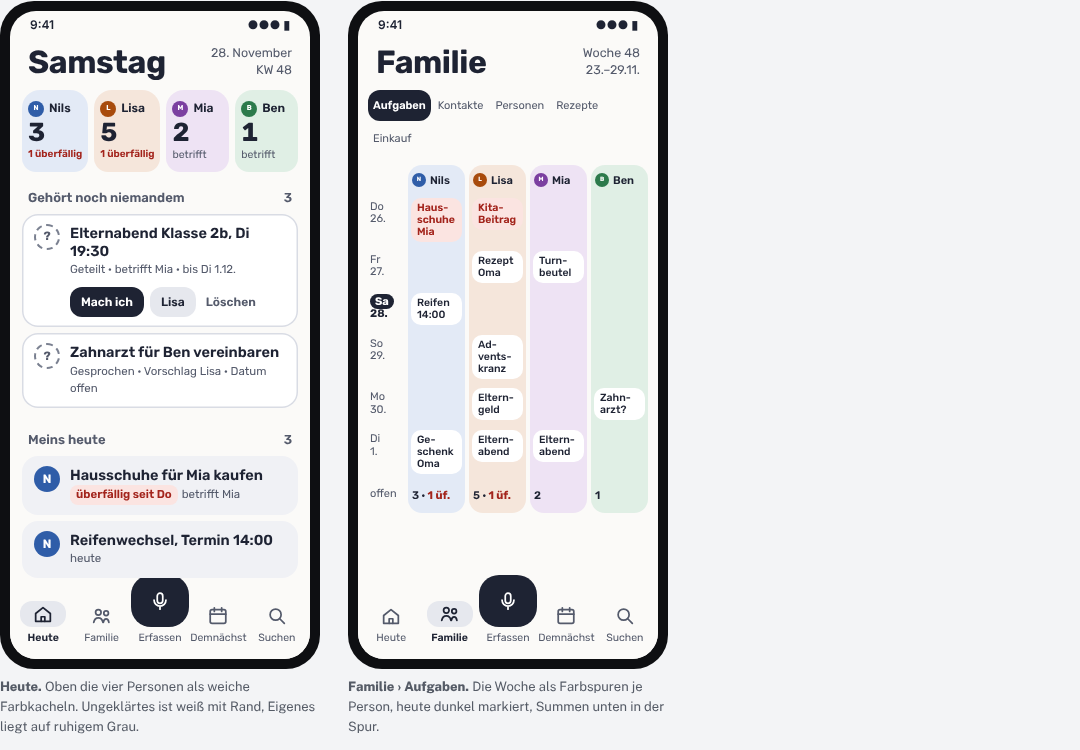
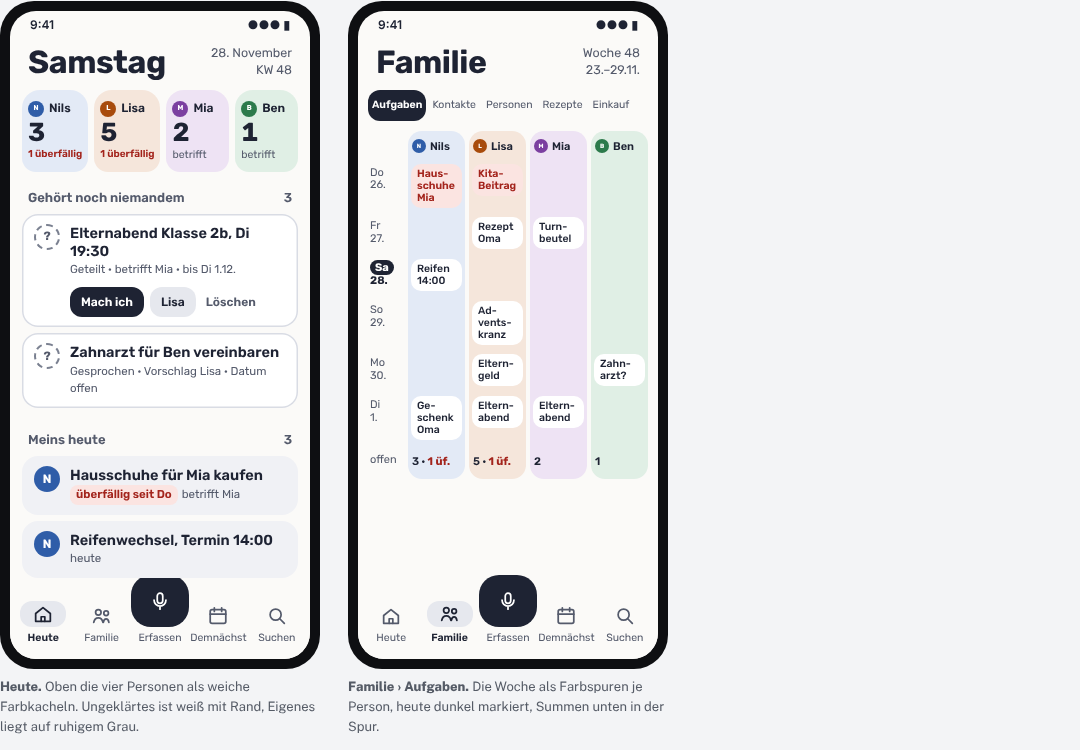
Add more screens in organic direction A, dark mode and 200 % font
Claude-Session: https://claude.ai/code/session_01BFnfEt5Be47hwYCfY1JE4V

diff --git a/docs/gestaltung/richtungen/optik-richtungen.html b/docs/gestaltung/richtungen/optik-richtungen.html
@@ -233,6 +233,80 @@ a{color:var(--mark)}
 .A2 .blk.odb{background:#FBE4E1;color:#A3241C;font-weight:600}
 .A2 .ft{font-size:11px;font-weight:600;padding:7px 4px 9px;border-radius:0 0 14px 14px}
 .A2 .ft b{color:#A3241C}
+
+/* ---------- A2 weitere Ansichten ---------- */
+.A2 .tabs span{padding:7px 4px;font-size:10.5px}
+.A2 .wkh{font-size:13px;font-weight:600;color:#545A6B;padding:12px 18px 6px}
+.A2 .ur{display:flex;align-items:center;gap:10px;margin:0 12px 6px;padding:8px 10px;border-radius:16px;background:#F0F1F5}
+.A2 .dt{width:40px;border-radius:12px;background:#fff;text-align:center;padding:4px 0;flex:none;line-height:1.1}
+.A2 .dt small{display:block;font-size:10px;color:#545A6B;font-weight:600}
+.A2 .dt b{font-size:16px}
+.A2 .ur .tt{font-size:14px}
+.A2 .ur .dot,.A2 .ur .q{margin-left:auto}
+.A2 .tag{display:inline-block;border-radius:8px;padding:1px 6px;font-size:11px;font-weight:600;background:#E6E8EE;color:#1E2333}
+.A2 .fld{margin:0 12px 10px;border-radius:14px;box-shadow:inset 0 0 0 1.5px #D9DCE4;background:#fff;padding:10px 12px;font-size:14px;color:#545A6B;display:flex;gap:8px;align-items:center}
+.A2 .fld.val{color:#1E2333}
+.A2 .chips{display:flex;gap:6px;padding:0 12px 10px;flex-wrap:wrap}
+.A2 .chips span{font-size:12px;font-weight:600;border-radius:12px;padding:6px 10px;background:#E6E8EE}
+.A2 .chips .on{background:#1E2333;color:#fff}
+.A2 .rgrid{display:grid;grid-template-columns:1fr 1fr;gap:8px;padding:0 12px}
+.A2 .rc{border-radius:18px;background:#fff;box-shadow:inset 0 0 0 1.5px #E3E5EB;overflow:hidden}
+.A2 .rc .img{height:78px}
+.A2 .rc .t{font-size:13.5px;font-weight:600;padding:7px 9px 2px;line-height:1.2}
+.A2 .rc .w{font-size:11px;color:#545A6B;padding:0 9px 9px}
+.A2 .rc .w b{color:#2C7A4B;font-weight:600}
+.A2 .pt{display:flex;align-items:center;gap:12px;margin:0 12px 8px;padding:12px;border-radius:20px}
+.A2 .pt .n{font-size:16px;font-weight:600}
+.A2 .pt .s{font-size:12px;color:#545A6B}
+.A2 .pt .cnt{margin-left:auto;text-align:right;font-size:12px;color:#545A6B}
+.A2 .pt .cnt b{display:block;font-size:20px;color:#1E2333}
+.A2 .pt.add{background:transparent;box-shadow:inset 0 0 0 2px #D9DCE4;border-style:dashed;justify-content:center;font-weight:600;color:#545A6B;font-size:14px;outline:2px dashed #C3C7D1;outline-offset:-2px;box-shadow:none}
+.A2 .cg{font-size:13px;font-weight:600;color:#545A6B;padding:10px 18px 6px}
+.A2 .ct{display:flex;align-items:center;gap:10px;margin:0 12px 6px;padding:9px 10px;border-radius:16px;background:#F0F1F5}
+.A2 .ct .ini{width:34px;height:34px;border-radius:50%;background:#fff;display:grid;place-items:center;font-weight:700;font-size:13px;flex:none}
+.A2 .ct .n{font-size:14px;font-weight:600}
+.A2 .ct .r{font-size:11.5px;color:#545A6B}
+.A2 .ct .call{margin-left:auto;font-size:12px;font-weight:600;background:#1E2333;color:#fff;border-radius:12px;padding:7px 10px}
+.A2 .res{margin:0 12px 6px;padding:10px 12px;border-radius:16px;background:#F0F1F5}
+.A2 .res .tt{font-size:14px}
+.A2 .res .mm{display:flex;gap:6px;align-items:center;margin-top:3px}
+.A2 .cap-sheet{position:absolute;left:0;right:0;bottom:0;background:#fff;border-radius:26px 26px 0 0;padding:12px 16px 16px;box-shadow:0 -8px 30px -10px #1E233340;display:flex;flex-direction:column;align-items:center;gap:10px}
+.A2 .live{font-size:19px;font-weight:600;line-height:1.3;text-align:center;min-height:52px}
+.A2 .live span{color:#9AA0AE}
+.A2 .pulse{width:78px;height:78px;border-radius:50%;background:#FBE4E1;display:grid;place-items:center}
+.A2 .pulse div{width:54px;height:54px;border-radius:50%;background:#A3241C;color:#fff;display:grid;place-items:center}
+.A2 .cap-opts{display:grid;grid-template-columns:1fr 1fr 1fr;gap:8px;width:100%}
+.A2 .cap-opts span{border-radius:16px;background:#F0F1F5;text-align:center;padding:10px 4px;font-size:12.5px;font-weight:600}
+.A2 .cap-opts .mid{background:#1E2333;color:#fff}
+/* Dunkel */
+.A2.dk{background:#16181F;color:#ECEDF2}
+.A2.dk .dmeta,.A2.dk .lab,.A2.dk .mm,.A2.dk .pp .mm2,.A2.dk .sec{color:#A9AEBC}
+.A2.dk .row{background:#22252E}
+.A2.dk .row.open{background:#16181F;box-shadow:inset 0 0 0 1.5px #3A3E4A}
+.A2.dk .q{border-color:#A9AEBC;color:#A9AEBC}
+.A2.dk .pp .rd,.A2.dk .od{color:#FF9C8F}
+.A2.dk .od{background:#3D2220}
+.A2.dk .ask span{background:#2C3039;color:#ECEDF2}
+.A2.dk .ask .y{background:#ECEDF2;color:#16181F}
+.A2.dk .ask .del{background:transparent;color:#A9AEBC}
+.A2.dk .nav{background:#16181F;color:#A9AEBC}
+.A2.dk .nav .on{color:#ECEDF2}
+.A2.dk .nav .on svg{background:#2C3039}
+.A2.dk .capq{background:#ECEDF2;color:#16181F}
+.A2.dk .dot{color:#16181F!important}
+/* 200 % Schrift */
+.A2.x2 .dname{font-size:46px}
+.A2.x2 .dmeta{font-size:20px}
+.A2.x2 .ppl{grid-template-columns:1fr 1fr}
+.A2.x2 .pp .nm{font-size:20px}
+.A2.x2 .pp .num{font-size:40px}
+.A2.x2 .pp .rd,.A2.x2 .pp .mm2{font-size:17px;white-space:normal}
+.A2.x2 .lab{font-size:22px}
+.A2.x2 .tt{font-size:24px}
+.A2.x2 .mm{font-size:18px}
+.A2.x2 .nav .it{font-size:11px;letter-spacing:-.02em}
+.A2.x2 .day{flex-direction:column;align-items:flex-start;gap:4px}
+.A2.x2 .dmeta{text-align:left}
 @media (prefers-reduced-motion: reduce){*{transition:none!important;animation:none!important}}
 </style>
 
@@ -305,6 +379,29 @@ a{color:var(--mark)}
       </div></div>
       <p class="cap"><b>Familie › Aufgaben.</b> Die Woche als Farbspuren je Person, heute dunkel markiert, Summen unten in der Spur.</p>
     </div>
+  </div>
+</section>
+
+<section class="dir" id="a-ansichten">
+  <div class="dirhead">
+    <div>
+      <div class="eyebrow">Richtung A organisch · weitere Ansichten</div>
+      <h2>Die ganze App in einem Stil</h2>
+      <p>Dieselben Bausteine überall: weiche Flächen in Personenfarbe, gerundete Kacheln, ein dunkler Hauptknopf, gestrichelt heißt offen. Einkauf, Wochenplanung und Erfassen eines Einkaufs stehen auf der Seite <a href="https://claude.ai/artifact/J19LnQM2G9sgGHv16MxSRZ">Klickwege Küche</a>.</p>
+    </div>
+    <div style="font-size:14.5px">
+      <h3>Dunkel und große Schrift</h3><p>Im Dunkelmodus werden die Spuren zu tiefen Tönen derselben Farbe (Text darauf ≥ 11,3 : 1, Sekundärtext ≥ 6,0 : 1, Rot #FF9C8F ≥ 6,5 : 1), der Hauptknopf wird hell. Bei 200 % Schrift stapeln sich die Personenkacheln zu zwei Spalten, Datum rutscht unter den Wochentag, nichts wird abgeschnitten.</p>
+    </div>
+  </div>
+  <div class="phones">
+    <div><div class="phone"><div class="screen A2 "><div class="status"><span>9:41</span><span>●●● ▮</span></div><div class="day"><span class="dname">Demnächst</span><span class="dmeta">6 Wochen<br>bis 8. Januar</span></div><div class="body"><div class="wkh">Diese Woche · KW 48</div><div class="ur"><div class="dt"><small>So</small><b>29</b></div><div><div class="tt">Adventskranz holen</div></div><span class="dot" style="width:26px;height:26px;background:#A84B0C;font-size:12px">L</span></div><div class="ur"><div class="dt"><small>Mo</small><b>30</b></div><div><div class="tt">Elterngeld-Nachweis</div><div class="mm">bis Montag</div></div><span class="dot" style="width:26px;height:26px;background:#A84B0C;font-size:12px">L</span></div><div class="ur"><div class="dt"><small>Di</small><b>1</b></div><div><div class="tt">Elternabend Klasse 2b</div><div class="mm"><span class="tag">noch nicht bestätigt</span></div></div><span class="q">?</span></div><div class="wkh">Nächste Woche · KW 49</div><div class="ur"><div class="dt"><small>Do</small><b>3</b></div><div><div class="tt">Geburtstag Oma</div><div class="mm">Geschenk: Nils</div></div><span class="dot" style="width:26px;height:26px;background:#2F5DA8;font-size:12px">N</span></div><div class="ur"><div class="dt"><small>Fr</small><b>4</b></div><div><div class="tt">Zahnarzt Ben, 15:30</div><div class="mm">vorausgedacht aus Kalender</div></div><span class="dot" style="width:26px;height:26px;background:#A84B0C;font-size:12px">L</span></div><div class="wkh">KW 50</div><div class="ur"><div class="dt"><small>Mi</small><b>9</b></div><div><div class="tt">Weihnachtsfeier Kita</div></div><span class="q">?</span></div></div><div class="nav"><div class="it"><svg><use href="#i-today"/></svg>Heute</div><div class="it"><svg><use href="#i-fam"/></svg>Familie</div><div class="it"><div class="capq"><svg><use href="#i-mic"/></svg></div>Erfassen</div><div class="it on"><svg><use href="#i-cal"/></svg>Demnächst</div><div class="it"><svg><use href="#i-search"/></svg>Suchen</div></div></div></div><p class="cap"><b>Demnächst.</b> Datum als Kachel, Person rechts, offene Zuständigkeit als gestrichelter Kreis.</p></div>
+    <div><div class="phone"><div class="screen A2 "><div class="status"><span>9:41</span><span>●●● ▮</span></div><div class="day"><span class="dname">Familie</span><span class="dmeta">Rezepte<br>24 gespeichert</span></div><div class="tabs"><span>Aufgaben</span><span>Kontakte</span><span>Personen</span><span class="on">Rezepte</span><span>Einkauf</span></div><div class="body"><div class="fld"><svg style="width:16px;height:16px"><use href="#i-search"/></svg>Rezept suchen</div><div class="chips"><span class="on">Im Angebot</span><span>Saison</span><span>Unter 30 min</span><span>Kinder mögen’s</span></div><div class="rgrid"><div class="rc"><div class="img" style="background:#F5E6DB"></div><div class="t">Ofengemüse mit Feta</div><div class="w"><b>Paprika 1,29 €</b> · 35 min</div></div><div class="rc"><div class="img" style="background:#E0EFE5"></div><div class="t">Linsen-Dal</div><div class="w"><b>Linsen 0,89 €</b> · 30 min</div></div><div class="rc"><div class="img" style="background:#EEE3F4"></div><div class="t">Rotkohl-Pfanne</div><div class="w">Saison · 25 min</div></div><div class="rc"><div class="img" style="background:#E3EAF6"></div><div class="t">Pfannkuchen</div><div class="w">zuletzt vor 3 Wochen</div></div></div></div><div class="nav"><div class="it"><svg><use href="#i-today"/></svg>Heute</div><div class="it on"><svg><use href="#i-fam"/></svg>Familie</div><div class="it"><div class="capq"><svg><use href="#i-mic"/></svg></div>Erfassen</div><div class="it"><svg><use href="#i-cal"/></svg>Demnächst</div><div class="it"><svg><use href="#i-search"/></svg>Suchen</div></div></div></div><p class="cap"><b>Familie › Rezepte.</b> Filter als Chips, Angebote grün mit Preis.</p></div>
+    <div><div class="phone"><div class="screen A2 "><div class="status"><span>9:41</span><span>●●● ▮</span></div><div class="day"><span class="dname">Familie</span><span class="dmeta">Personen<br>4 + Oma</span></div><div class="tabs"><span>Aufgaben</span><span>Kontakte</span><span class="on">Personen</span><span>Rezepte</span><span>Einkauf</span></div><div class="body"><div class="pt" style="background:#E3EAF6"><span class="dot" style="width:42px;height:42px;background:#2F5DA8;font-size:19px">N</span><div><div class="n">Nils (ich)</div><div class="s">Erwachsen · Pixel 10</div></div><div class="cnt"><b>3</b>offen</div></div><div class="pt" style="background:#F5E6DB"><span class="dot" style="width:42px;height:42px;background:#A84B0C;font-size:19px">L</span><div><div class="n">Lisa</div><div class="s">Erwachsen · eigenes Handy</div></div><div class="cnt"><b>5</b>offen</div></div><div class="pt" style="background:#EEE3F4"><span class="dot" style="width:42px;height:42px;background:#7B3FA0;font-size:19px">M</span><div><div class="n">Mia</div><div class="s">Kind · 2b, Grundschule am Park</div></div><div class="cnt"><b>2</b>offen</div></div><div class="pt" style="background:#E0EFE5"><span class="dot" style="width:42px;height:42px;background:#2C7A4B;font-size:19px">B</span><div><div class="n">Ben</div><div class="s">Kind · Kita Sonnenblume</div></div><div class="cnt"><b>1</b>offen</div></div><div class="pt add">+ Person hinzufügen</div></div><div class="nav"><div class="it"><svg><use href="#i-today"/></svg>Heute</div><div class="it on"><svg><use href="#i-fam"/></svg>Familie</div><div class="it"><div class="capq"><svg><use href="#i-mic"/></svg></div>Erfassen</div><div class="it"><svg><use href="#i-cal"/></svg>Demnächst</div><div class="it"><svg><use href="#i-search"/></svg>Suchen</div></div></div></div><p class="cap"><b>Familie › Personen.</b> Jede Person als Fläche in ihrer Farbe, Tap öffnet das Portfolio.</p></div>
+    <div><div class="phone"><div class="screen A2 "><div class="status"><span>9:41</span><span>●●● ▮</span></div><div class="day"><span class="dname">Familie</span><span class="dmeta">Kontakte<br>18</span></div><div class="tabs"><span>Aufgaben</span><span class="on">Kontakte</span><span>Personen</span><span>Rezepte</span><span>Einkauf</span></div><div class="body"><div class="fld"><svg style="width:16px;height:16px"><use href="#i-search"/></svg>Kontakt suchen</div><div class="cg">Schule und Kita</div><div class="ct"><span class="ini">FW</span><div><div class="n">Frau Wagner</div><div class="r">Klassenlehrerin 2b · Mia</div></div><span class="call">Anrufen</span></div><div class="ct"><span class="ini">KS</span><div><div class="n">Kita Sonnenblume</div><div class="r">Gruppe Igel · Ben</div></div><span class="call">Anrufen</span></div><div class="cg">Ärzte</div><div class="ct"><span class="ini">DH</span><div><div class="n">Dr. Huber</div><div class="r">Zahnarzt · Ben, Mia</div></div><span class="call">Anrufen</span></div><div class="ct"><span class="ini">KP</span><div><div class="n">Praxis Kern</div><div class="r">Kinderärztin</div></div><span class="call">Anrufen</span></div><div class="cg">Handwerk</div><div class="ct"><span class="ini">WH</span><div><div class="n">Werkstatt Huber</div><div class="r">Reifen, Inspektion</div></div><span class="call">Anrufen</span></div></div><div class="nav"><div class="it"><svg><use href="#i-today"/></svg>Heute</div><div class="it on"><svg><use href="#i-fam"/></svg>Familie</div><div class="it"><div class="capq"><svg><use href="#i-mic"/></svg></div>Erfassen</div><div class="it"><svg><use href="#i-cal"/></svg>Demnächst</div><div class="it"><svg><use href="#i-search"/></svg>Suchen</div></div></div></div><p class="cap"><b>Familie › Kontakte.</b> Nach Bereichen gruppiert, Anrufen mit einem Tap.</p></div>
+    <div><div class="phone"><div class="screen A2 "><div class="status"><span>9:41</span><span>●●● ▮</span></div><div class="day"><span class="dname">Suchen</span><span class="dmeta">in allem,<br>auch Erledigtem</span></div><div class="body"><div class="fld val"><svg style="width:16px;height:16px"><use href="#i-search"/></svg>zahnarzt</div><div class="cg">Kontakte · 1</div><div class="ct"><span class="ini">DH</span><div><div class="n">Dr. Huber</div><div class="r">Zahnarzt · Ben, Mia</div></div><span class="call">Anrufen</span></div><div class="cg">Einträge · 3</div><div class="res"><div class="tt">Zahnarzt Ben, 15:30</div><div class="mm"><span class="tag">offen</span>Fr 4.12.</div></div><div class="res"><div class="tt">Zahnarzt Mia Kontrolle</div><div class="mm"><span class="tag" style="background:#E0EFE5">erledigt von Lisa</span>12.10.</div></div><div class="res"><div class="tt">Zahnzusatzversicherung kündigen?</div><div class="mm"><span class="tag">im Eingang</span>vor 3 Tagen</div></div></div><div class="nav"><div class="it"><svg><use href="#i-today"/></svg>Heute</div><div class="it"><svg><use href="#i-fam"/></svg>Familie</div><div class="it"><div class="capq"><svg><use href="#i-mic"/></svg></div>Erfassen</div><div class="it"><svg><use href="#i-cal"/></svg>Demnächst</div><div class="it on"><svg><use href="#i-search"/></svg>Suchen</div></div></div></div><p class="cap"><b>Suchen.</b> Kontakte zuerst, Einträge mit Stand und wer es erledigt hat.</p></div>
+    <div><div class="phone"><div class="screen A2 "><div class="status"><span>9:41</span><span>●●● ▮</span></div><div class="day"><span class="dname">Samstag</span><span class="dmeta">28. November<br>KW 48</span></div><div class="body"><div class="dim" style="position:absolute;inset:0;background:#1E233355"></div><div class="cap-sheet"><div class="grab" style="width:36px;height:4px;border-radius:2px;background:#D9DCE4"></div><div style="font-size:12.5px;color:#545A6B">Ich höre zu …</div><div class="live">Mia braucht bis Donnerstag <span>neue Hausschuhe</span></div><div class="pulse"><div><svg style="width:26px;height:26px"><use href="#i-mic"/></svg></div></div><div class="cap-opts"><span>Tippen</span><span class="mid">Foto</span><span>Abbrechen</span></div><div style="font-size:11.5px;color:#545A6B;text-align:center">Speichert von selbst, sobald du aufhörst. „Foto“ liegt genau unter dem Erfassen-Knopf.</div></div></div><div class="nav"><div class="it"><svg><use href="#i-today"/></svg>Heute</div><div class="it"><svg><use href="#i-fam"/></svg>Familie</div><div class="it"><div class="capq"><svg><use href="#i-mic"/></svg></div>Erfassen</div><div class="it"><svg><use href="#i-cal"/></svg>Demnächst</div><div class="it"><svg><use href="#i-search"/></svg>Suchen</div></div></div></div><p class="cap"><b>Erfassen.</b> Sprache läuft sofort, der Text erscheint live, „Foto“ an derselben Stelle.</p></div>
+    <div><div class="phone"><div class="screen A2 dk"><div class="status"><span>9:41</span><span>●●● ▮</span></div><div class="day"><span class="dname">Samstag</span><span class="dmeta">28. November<br>KW 48</span></div><div class="body"><div class="ppl"><div class="pp" style="background:#1E2A40"><span class="nm"><span class="dot" style="width:16px;height:16px;background:#8FB0EC;font-size:7px">N</span>Nils</span><span class="num">3</span><span class="rd">1 überfällig</span></div><div class="pp" style="background:#3A2A20"><span class="nm"><span class="dot" style="width:16px;height:16px;background:#F0A06A;font-size:7px">L</span>Lisa</span><span class="num">5</span><span class="rd">1 überfällig</span></div><div class="pp" style="background:#33283D"><span class="nm"><span class="dot" style="width:16px;height:16px;background:#C9A0E6;font-size:7px">M</span>Mia</span><span class="num">2</span><span class="mm2">betrifft</span></div><div class="pp" style="background:#1F3328"><span class="nm"><span class="dot" style="width:16px;height:16px;background:#7FCB9B;font-size:7px">B</span>Ben</span><span class="num">1</span><span class="mm2">betrifft</span></div></div><div class="lab"><span>Gehört noch niemandem</span><span>3</span></div><div class="row open"><span class="q">?</span><div><div class="tt">Elternabend Klasse 2b, Di 19:30</div><div class="mm">Geteilt · betrifft Mia</div><div class="ask"><span class="y">Mach ich</span><span>Lisa</span><span class="del">Löschen</span></div></div></div><div class="lab"><span>Meins heute</span><span>3</span></div><div class="row"><span class="dot" style="width:26px;height:26px;background:#8FB0EC;font-size:12px">N</span><div><div class="tt">Hausschuhe für Mia kaufen</div><div class="mm"><span class="od">überfällig seit Do</span>betrifft Mia</div></div></div></div><div class="nav"><div class="it on"><svg><use href="#i-today"/></svg>Heute</div><div class="it"><svg><use href="#i-fam"/></svg>Familie</div><div class="it"><div class="capq"><svg><use href="#i-mic"/></svg></div>Erfassen</div><div class="it"><svg><use href="#i-cal"/></svg>Demnächst</div><div class="it"><svg><use href="#i-search"/></svg>Suchen</div></div></div></div><p class="cap"><b>Heute, dunkel.</b> Gleiche Ordnung, tiefe Farbspuren, heller Hauptknopf.</p></div>
+    <div><div class="phone"><div class="screen A2  x2"><div class="status"><span>9:41</span><span>●●● ▮</span></div><div class="day"><span class="dname">Samstag</span><span class="dmeta">28. November<br>KW 48</span></div><div class="body"><div class="ppl"><div class="pp" style="background:#E3EAF6"><span class="nm"><span class="dot" style="width:16px;height:16px;background:#2F5DA8;font-size:7px">N</span>Nils</span><span class="num">3</span><span class="rd">1 überfällig</span></div><div class="pp" style="background:#F5E6DB"><span class="nm"><span class="dot" style="width:16px;height:16px;background:#A84B0C;font-size:7px">L</span>Lisa</span><span class="num">5</span><span class="rd">1 überfällig</span></div></div><div class="lab"><span>Gehört noch niemandem</span><span>3</span></div><div class="row open"><span class="q">?</span><div><div class="tt">Elternabend Klasse 2b, Di 19:30</div><div class="mm">Geteilt · betrifft Mia</div><div class="ask"><span class="y">Mach ich</span><span>Lisa</span><span class="del">Löschen</span></div></div></div></div><div class="nav"><div class="it on"><svg><use href="#i-today"/></svg>Heute</div><div class="it"><svg><use href="#i-fam"/></svg>Familie</div><div class="it"><div class="capq"><svg><use href="#i-mic"/></svg></div>Erfassen</div><div class="it"><svg><use href="#i-cal"/></svg>Demnächst</div><div class="it"><svg><use href="#i-search"/></svg>Suchen</div></div></div></div><p class="cap"><b>Heute, 200 % Schrift.</b> Kacheln in zwei Spalten, Rest scrollt.</p></div>
   </div>
 </section>
 
